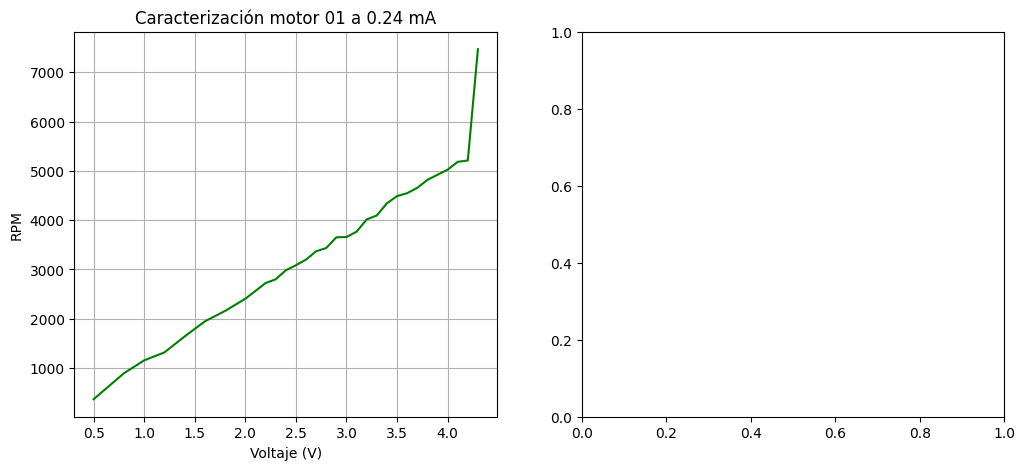
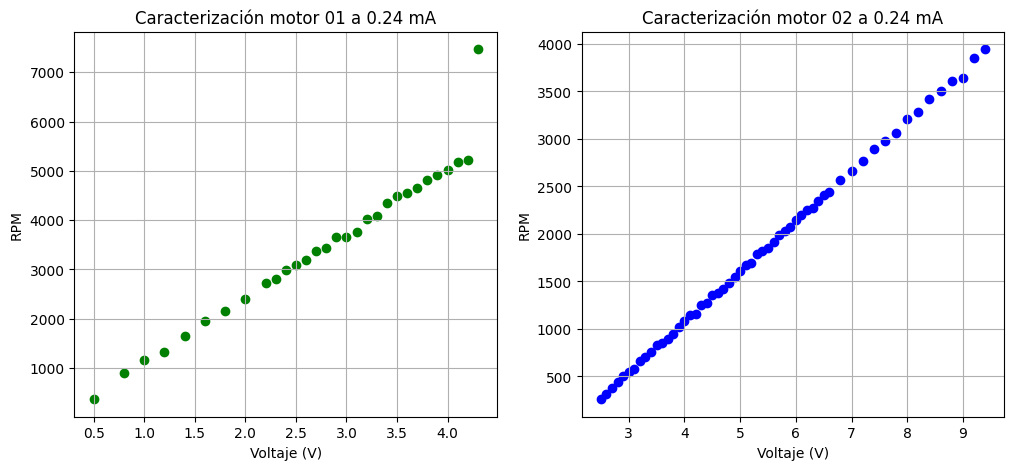
Graficas primer practica completa

diff --git a/Codigos_para_graficar_python/Primer practica/primer_practica.py b/Codigos_para_graficar_python/Primer practica/primer_practica.py
@@ -2,16 +2,18 @@ import numpy as np
 import matplotlib.pyplot as plt
 import pandas as pd
 
-### Graficas de David
-# ruta_dav = 'datos_david.csv'
-# df_david = pd.read_csv(ruta_dav)
+## Graficas de David
+ruta_dav = 'Codigos_para_graficar_python/Primer practica/Rpm.csv'
+df_david = pd.read_csv(ruta_dav)
+# print(df_david)
+
 
 ### Graficas mias
-ruta_mias = r'Codigos_para_graficar_python\Primer practica\motor_01_caracterizacion.csv'
+ruta_mias = 'Codigos_para_graficar_python/Primer practica/motor_01_caracterizacion.csv'
 df_mias = pd.read_csv(ruta_mias)
 
 # Columnas
-# columnas_dav = df_david.columns
+columnas_dav = df_david.columns
 columnas_mias = df_mias.columns
 
 # ==========================================
@@ -19,15 +21,17 @@ columnas_mias = df_mias.columns
 # ==========================================
 fig1, axs1 = plt.subplots(1, 2, figsize=(12, 5))
 
-# Grafica de David (Corregido el uso de set() para títulos y etiquetas)
-# axs1[1].scatter(df_david[columnas_dav[0]], df_david[columnas_dav[1]], label='David', color='blue')
-# axs1[1].set(title='Caracterización motor 02 a 0.24 mA', xlabel='Voltaje (V)', ylabel='RPM')
-# axs1[1].grid()
-
 # Grafica de Mias (Corregido el uso de set())
 axs1[0].scatter(df_mias[columnas_mias[0]], df_mias[columnas_mias[1]], color='green')
 axs1[0].set(title='Caracterización motor 01 a 0.24 mA', xlabel='Voltaje (V)', ylabel='RPM')
 axs1[0].grid()
+
+# Grafica de David (Corregido el uso de set() para títulos y etiquetas)
+axs1[1].scatter(df_david[columnas_dav[0]], df_david[columnas_dav[1]], label='David', color='blue')
+axs1[1].set(title='Caracterización motor 02 a 0.24 mA', xlabel='Voltaje (V)', ylabel='RPM')
+axs1[1].grid()
+
+
 
 # Guardar la primera figura
 plt.savefig('caracterizacion_motores.png', bbox_inches='tight') # bbox_inches='tight' evita que se corten los bordes
@@ -40,53 +44,46 @@ plt.show()
 fig2, axs2 = plt.subplots(2, 2, figsize=(12, 10))
 
 # Graficas mias
-axs2[0, 0].scatter(df_mias[columnas_mias[2]], df_mias[columnas_mias[3]])
+axs2[0, 0].scatter(df_mias[columnas_mias[2]], df_mias[columnas_mias[3]], color='green')
 axs2[0, 0].set_xlabel('Porcentaje')
 axs2[0, 0].set_ylabel('RPM')
 axs2[0, 0].set_title('Ciclo de trabajo vs RPM a hertz (Transistor bipolar)')
 axs2[0, 0].grid()
 
-axs2[0, 1].scatter(df_mias[columnas_mias[4]], df_mias[columnas_mias[5]])
+axs2[0, 1].scatter(df_mias[columnas_mias[4]], df_mias[columnas_mias[5]], color='green')
 axs2[0, 1].set_xlabel('Porcentaje')
 axs2[0, 1].set_ylabel('RPM')
 axs2[0, 1].set_title('Ciclo de trabajo vs RPM a kilohertz (Transistor bipolar)')
 axs2[0, 1].grid()
 
 # # Graficas David
-# axs2[1, 0].scatter(df[columnas[2]], df[columnas[3]])
-# axs2[1, 0].set_xlabel('Porcentaje')
-# axs2[1, 0].set_ylabel('RPM')
-# axs2[1, 0].set_title('Ciclo de trabajo vs RPM a hertz (Transistor bipolar)')
-# axs2[1, 0].grid()
+axs2[1, 0].scatter(df_david[columnas_dav[2]], df_david[columnas_dav[3]], color='blue')
+axs2[1, 0].set_xlabel('Porcentaje')
+axs2[1, 0].set_ylabel('RPM')
+axs2[1, 0].set_title('Ciclo de trabajo vs RPM a hertz (Transistor bipolar)')
+axs2[1, 0].grid()
 
-# axs2[1, 1].scatter(df[columnas[-2]], df[columnas[-1]])
-# axs2[1, 1].set_xlabel('Porcentaje')
-# axs2[1, 1].set_ylabel('RPM')
-# axs2[1, 1].set_title('Ciclo de trabajo vs RPM a kilohertz (Transistor bipolar)')
-# axs2[1, 1].grid()
+axs2[1, 1].scatter(df_david[columnas_dav[4]], df_david[columnas_dav[5]], color='blue')
+axs2[1, 1].set_xlabel('Porcentaje')
+axs2[1, 1].set_ylabel('RPM')
+axs2[1, 1].set_title('Ciclo de trabajo vs RPM a kilohertz (Transistor bipolar)')
+axs2[1, 1].grid()
 
 # Guardar la segunda figura
 plt.savefig('ciclos_trabajo_bipolar.png', bbox_inches='tight')
 plt.show()
 
 
-# # ==========================================
-# # 3. Graficas para ciclos de trabajo con Mosfet
-# # ==========================================
-# fig3, axs3 = plt.subplots(1, 2, figsize=(12, 5))
+# ==========================================
+# 3. Graficas para ciclos de trabajo con Mosfet
+# ==========================================
 
-# axs3[0].scatter(df[columnas[2]], df[columnas[3]])
-# axs3[0].set_xlabel('Porcentaje')
-# axs3[0].set_ylabel('RPM')
-# axs3[0].set_title('Ciclo de trabajo vs RPM a hertz (MOSFET)')
-# axs3[0].grid()
+plt.scatter(df_david[columnas_dav[6]], df_david[columnas_dav[7]])
+plt.xlabel('Porcentaje')
+plt.ylabel('RPM')
+plt.title('Ciclo de trabajo vs RPM a hertz (MOSFET)')
+plt.grid()
 
-# axs3[1].scatter(df[columnas[-2]], df[columnas[-1]])
-# axs3[1].set_xlabel('Porcentaje')
-# axs3[1].set_ylabel('RPM')
-# axs3[1].set_title('Ciclo de trabajo vs RPM a kilohertz (MOSFET)')
-# axs3[1].grid()
-
-# # Guardar la tercera figura
-# plt.savefig('ciclos_trabajo_mosfet.png', bbox_inches='tight')
-# plt.show()
+# Guardar la tercera figura
+plt.savefig('ciclos_trabajo_mosfet.png', bbox_inches='tight')
+plt.show()
